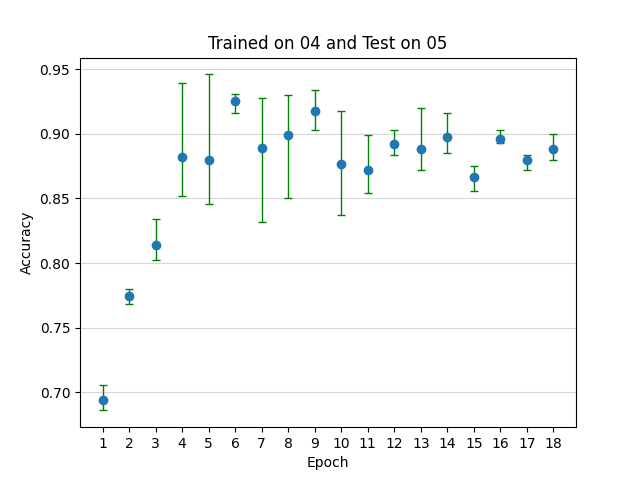
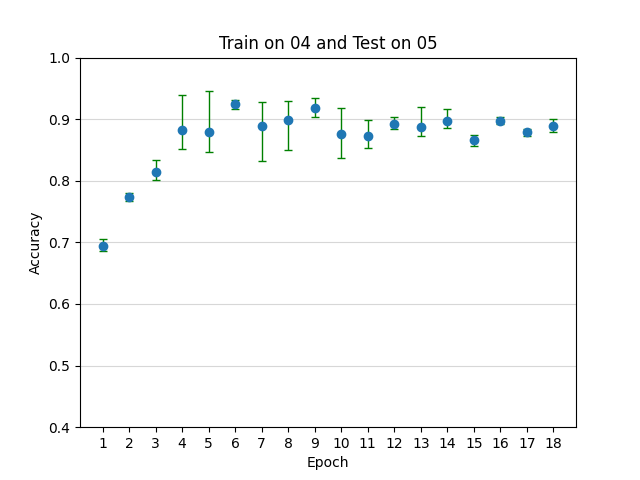
tested on code variance for table 2

diff --git a/results/1_tab2/errbar_05.py b/results/1_tab2/errbar_05.py
@@ -1,0 +1,41 @@
+import matplotlib.pyplot as plt
+import numpy as np
+import statistics as st
+
+x = np.arange(1,19,1)
+y_raw = np.array([[0.482,0.416,0.506],
+         [0.595,0.666,0.822],
+         [0.919,0.827,0.773],
+         [0.865,0.650,0.835],
+         [0.659,0.713,0.718],
+         [0.867,0.857,0.845],
+         [0.808,0.798,0.786],
+         [0.717,0.836,0.812],
+         [0.834,0.849,0.782],
+         [0.794,0.810,0.802],
+         [0.718,0.811,0.743],
+         [0.766,0.784,0.819],
+         [0.784,0.769,0.858],
+         [0.828,0.785,0.729],
+         [0.865,0.783,0.793],
+         [0.855,0.815,0.822],
+         [0.810,0.794,0.820],
+         [0.826,0.778,0.794]])
+y = np.array([])
+y_err = np.array([])
+
+for i in range(0, y_raw.shape[0]):
+    y_val = st.mean(y_raw[i])
+    y = np.append(y, y_val)
+    y_err = np.append(y_err, [y_val - min(y_raw[i]), max(y_raw[i]) - y_val])
+
+plt.figure()
+plt.grid(axis='y', alpha = 0.5)
+plt.errorbar(x, y, yerr=np.reshape(y_err,(2,-1),order='F'), fmt='o',linewidth=1,
+             ecolor='g', capsize=3)
+plt.xlabel('Epoch')
+plt.ylabel('Accuracy')
+plt.xticks(ticks=x)
+plt.ylim(0.4,1)
+plt.title('Train on 05 and Test on 04')
+plt.show()

diff --git a/results/1_tab2/errbar_04.py b/results/1_tab2/errbar_04.py
@@ -28,9 +28,7 @@ for i in range(0, y_raw.shape[0]):
     y_val = st.mean(y_raw[i])
     y = np.append(y, y_val)
     y_err = np.append(y_err, [y_val - min(y_raw[i]), max(y_raw[i]) - y_val])
-    # print(max(y_raw[i])-y_val)
 
-# y_err = y_err.reshape(2,-1)
 plt.figure()
 plt.grid(axis='y', alpha = 0.5)
 plt.errorbar(x, y, yerr=np.reshape(y_err,(2,-1),order='F'), fmt='o',linewidth=1,
@@ -38,5 +36,6 @@ plt.errorbar(x, y, yerr=np.reshape(y_err,(2,-1),order='F'), fmt='o',linewidth=1,
 plt.xlabel('Epoch')
 plt.ylabel('Accuracy')
 plt.xticks(ticks=x)
-plt.title('Trained on 04 and Test on 05')
+plt.ylim(0.4,1)
+plt.title('Train on 04 and Test on 05')
 plt.show()
